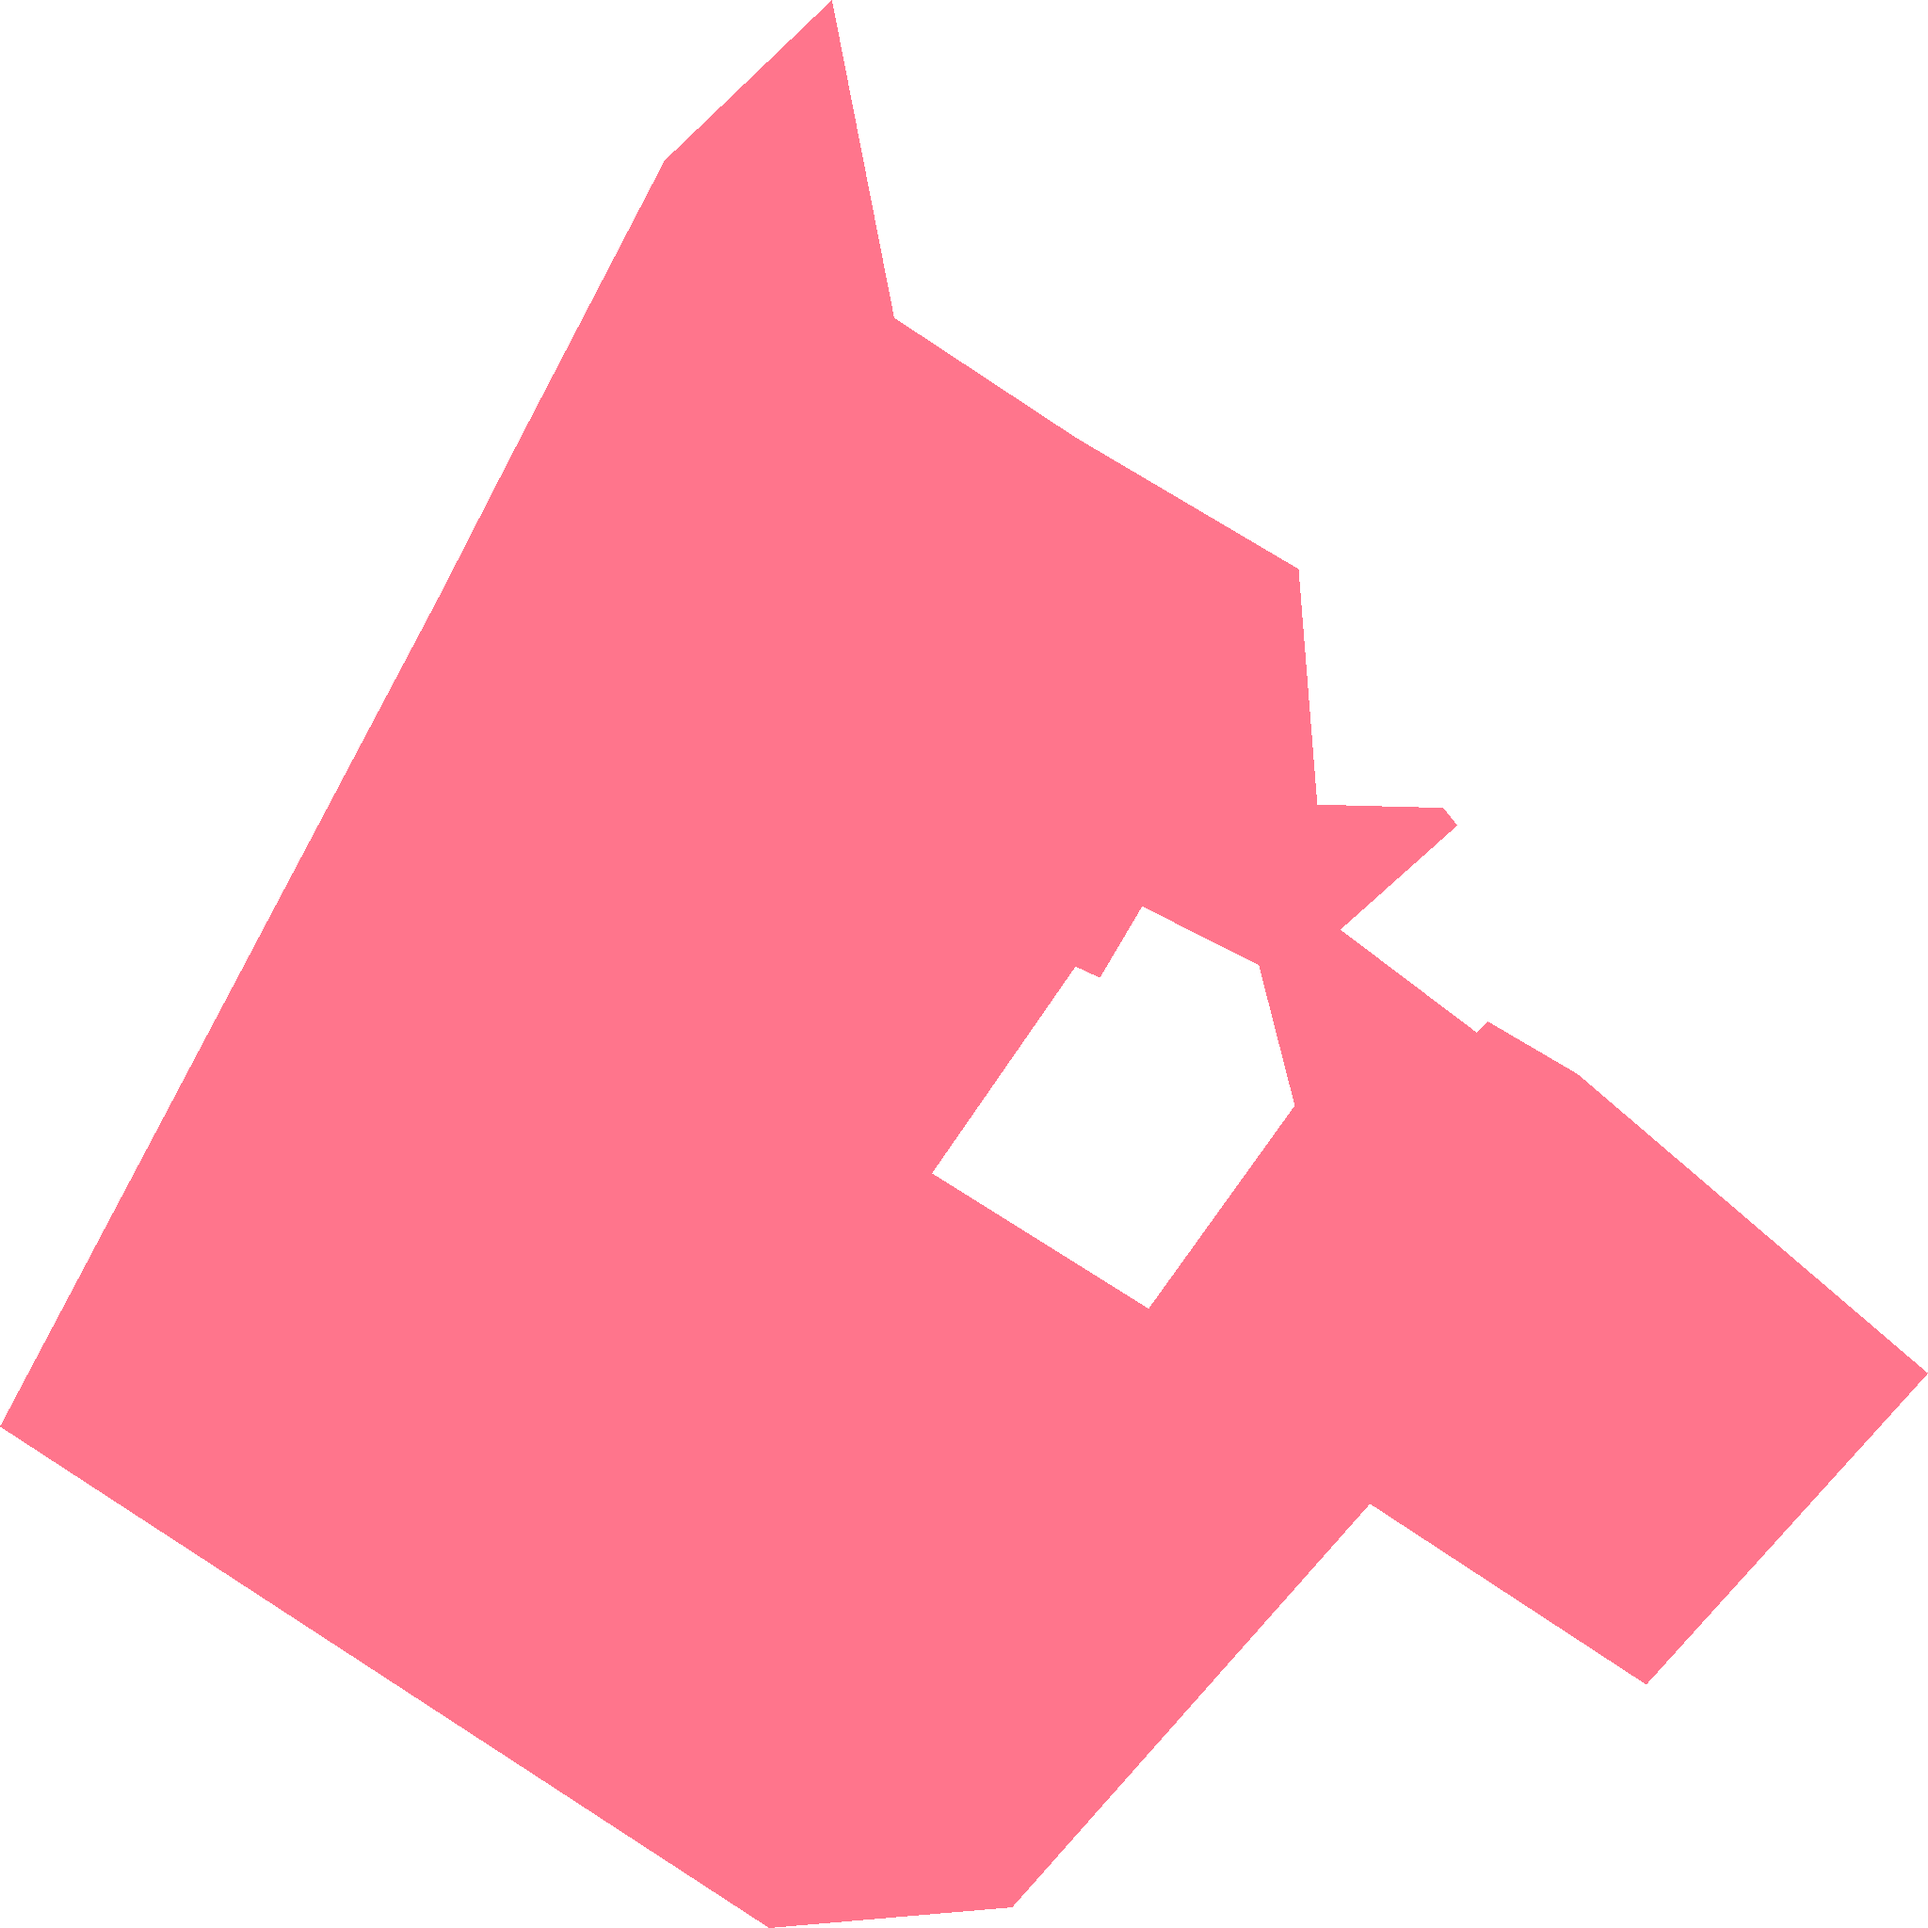
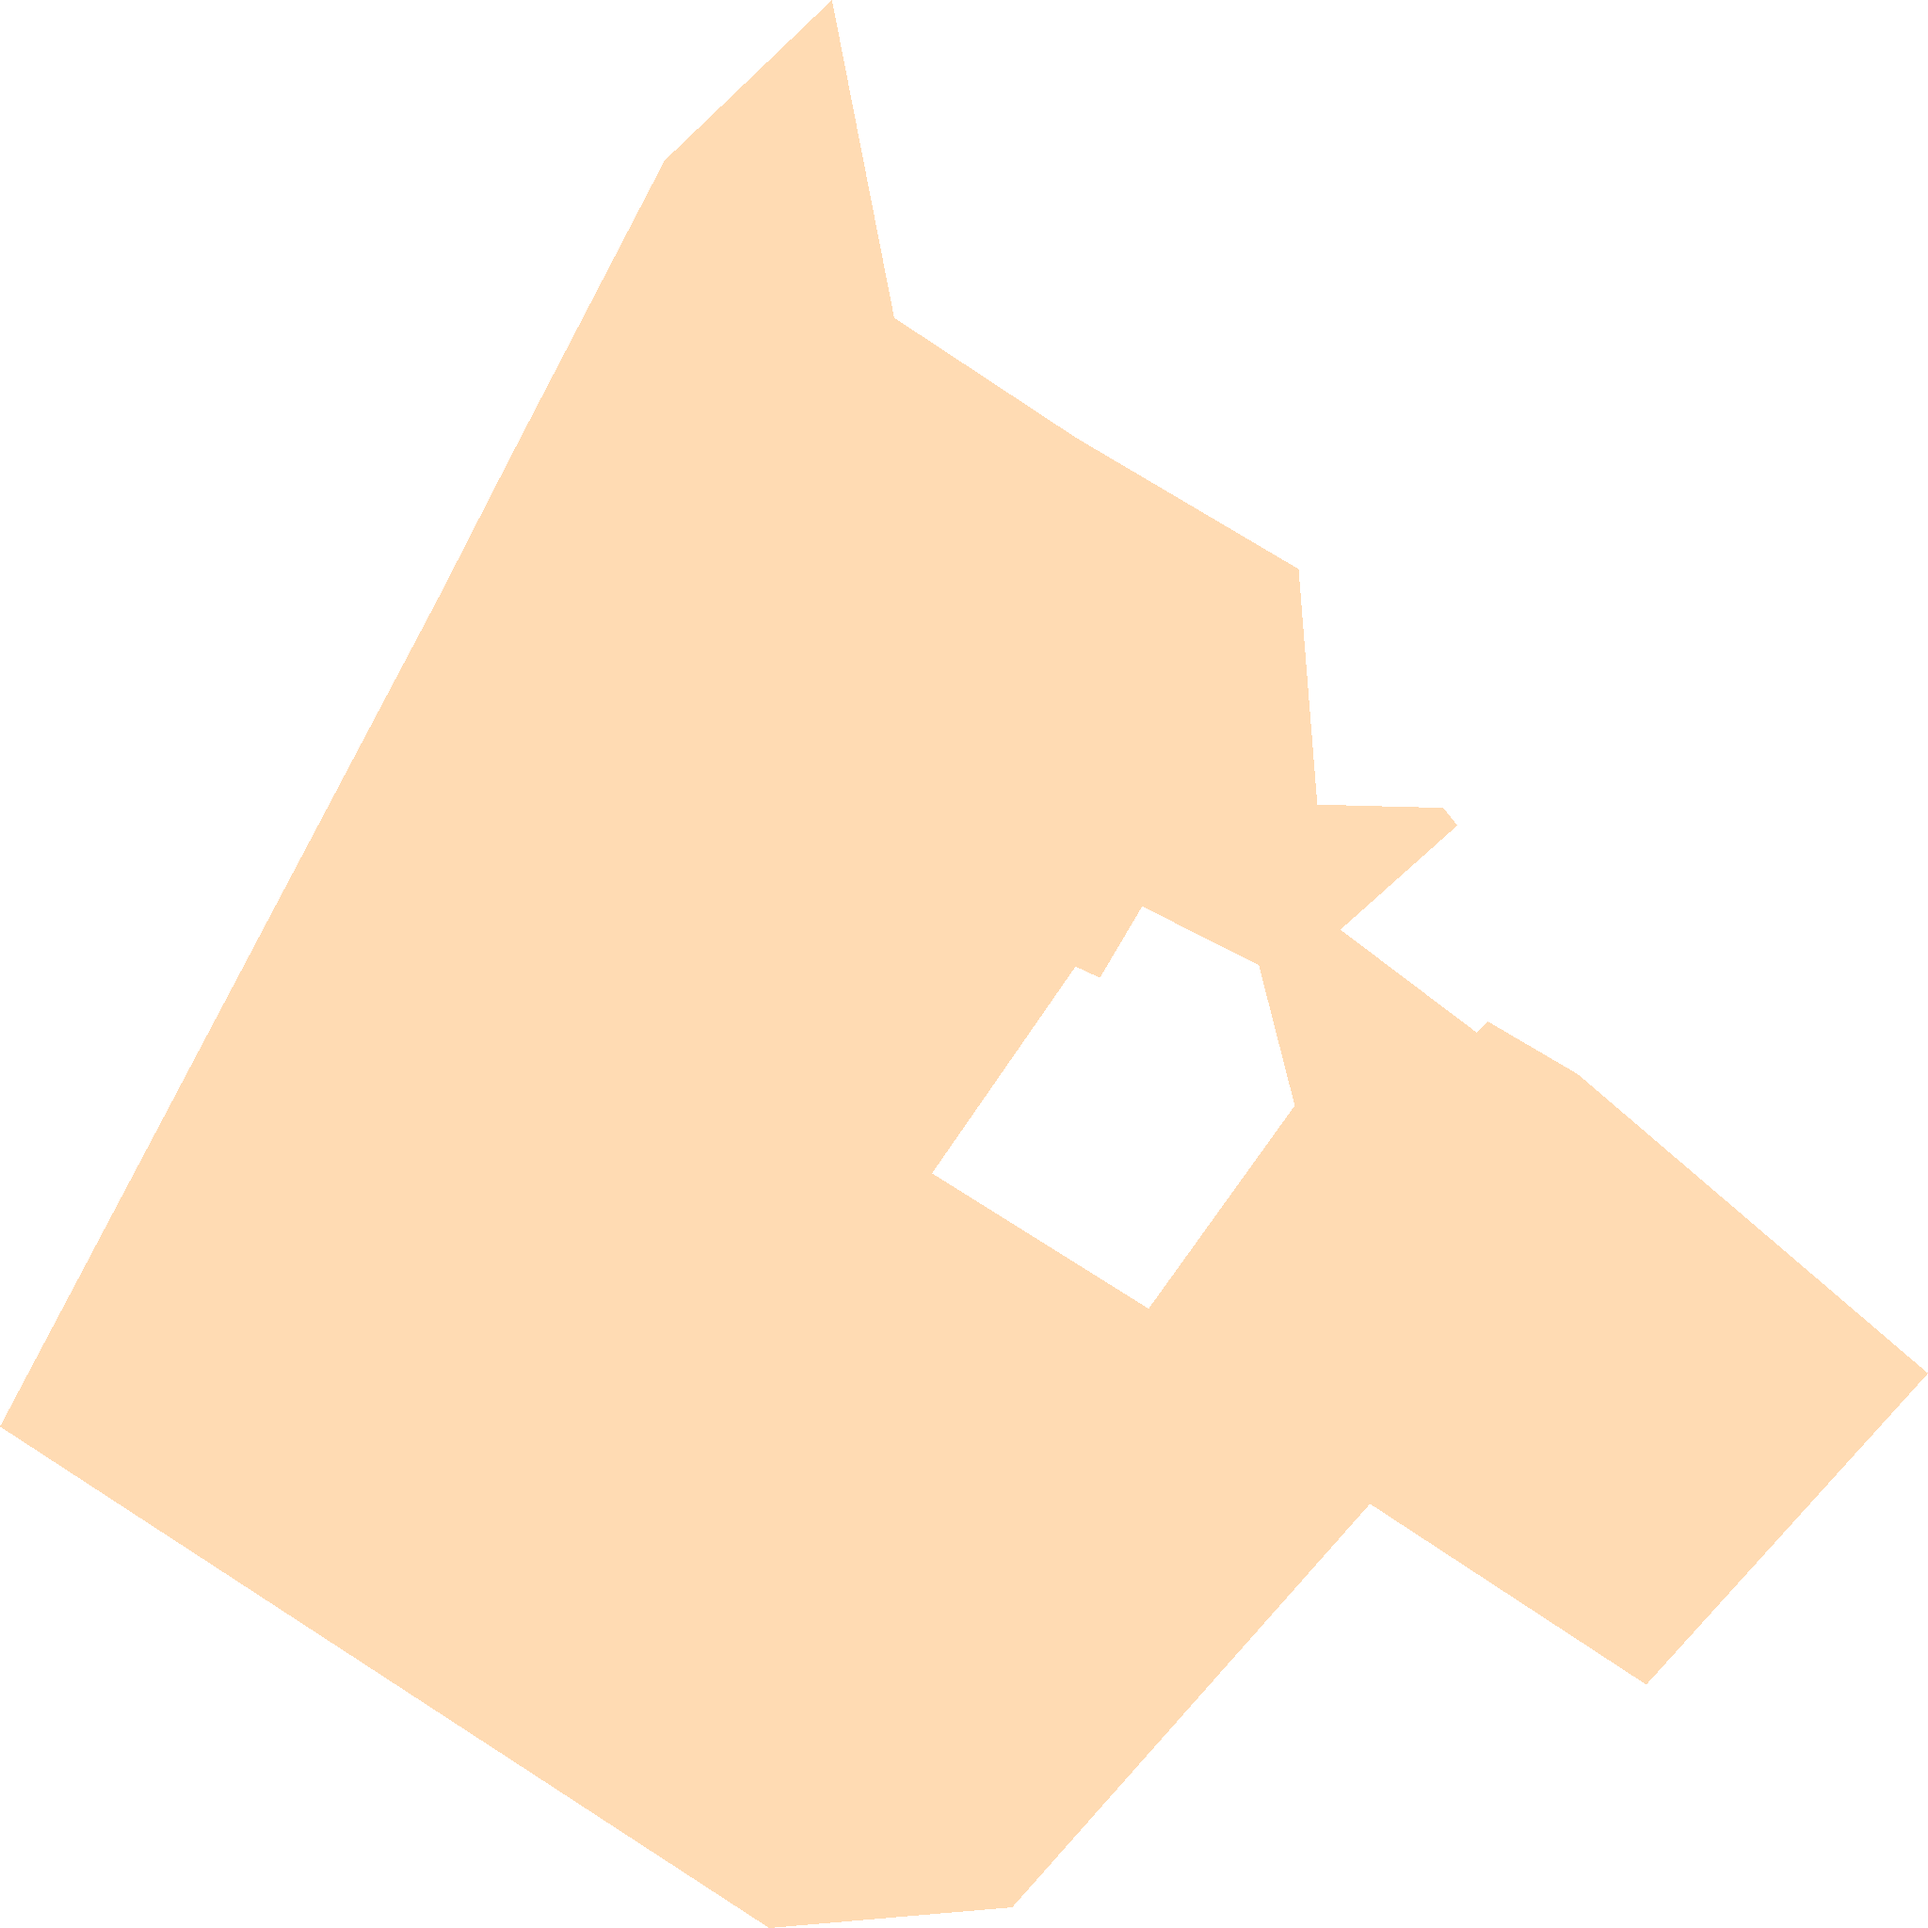
Karte sp_636

diff --git a/sp_636.html b/sp_636.html
@@ -60,7 +60,7 @@
         }
         .custom-control2 {
             position: absolute;
-            bottom: -320px;
+            top: 110px;
             left: 0px;
             background: white;
             padding: 5px;
@@ -77,24 +77,6 @@
         .custom-control:hover, .custom-control2:hover {
             background-color: #f0f0f0 !important;
         }
-        .leaflet-control-geocoder-icon {
-            background-color: white !important;
-            color: grey !important;
-            border: none !important;
-            width: 20px;
-            height: 20px;
-            display: flex;
-            justify-content: center;
-            align-items: center;
-            font-size: 15px;
-            font-family: 'Montserrat', sans-serif;
-            box-shadow: 0 1px 3px rgba(0, 0, 0, 0.3);
-            border-radius: 2px;
-            cursor: pointer;
-        }
-        .leaflet-control-geocoder-icon:hover {
-            background-color: #f0f0f0 !important;
-        }
         .custom-marker {
             width: 15px;
             height: 15px;
@@ -104,8 +86,8 @@
         }
         #legend {
             position: absolute;
-            bottom: 80px;
-            left: 55px;
+            top: 160px;
+            left: 10px;
             display: none;
             z-index: 1000;
             background: white;
@@ -128,8 +110,9 @@
 <body>
     <div id="map"></div>
     <div id="legend">
-        <div><span style="display:inline-block; width:20px; height:10px; background:#FF7F00; margin-right:5px;"></span>Ausbauphase 1: Ausbau bei ausreichender Nachfrage</div>
+        <div><span style="display:inline-block; width:20px; height:10px; background:#FF7F00; margin-right:5px;"></span>Ausbauphase 1: Glasfasernetz vorhanden oder geplant</div>
         <div><span style="display:inline-block;width:20px; height:10px; background:#00143C; margin-right:5px;"></span>Ausbauphase 2: Interessenbekundung möglich</div>
+        <div><span style="display:inline-block;width:20px; height:10px; background:#FFC17D; margin-right:5px;"></span>Ausbauphase 3: Gefördertes Ausbaugebiet </div>
     </div>
     <script>
     const bounds = [[50.339781001, 9.205808685], [50.342664675, 9.210227019]];
@@ -166,20 +149,6 @@
         });
         map.addControl(new legendControl());
         const markerLayerGroup = L.layerGroup().addTo(map);
-        const geocoder = L.Control.geocoder({
-            defaultMarkGeocode: false
-        })
-            .on('markgeocode', function (e) {
-                markerLayerGroup.clearLayers();
-                const latlng = e.geocode.center;
-                const customMarker = L.divIcon({
-                    className: 'custom-marker'
-                });
-                const marker = L.marker(latlng, { icon: customMarker });
-                markerLayerGroup.addLayer(marker);
-                map.fitBounds(bounds);
-            })
-            .addTo(map);
     </script>
 </body>
 </html>
